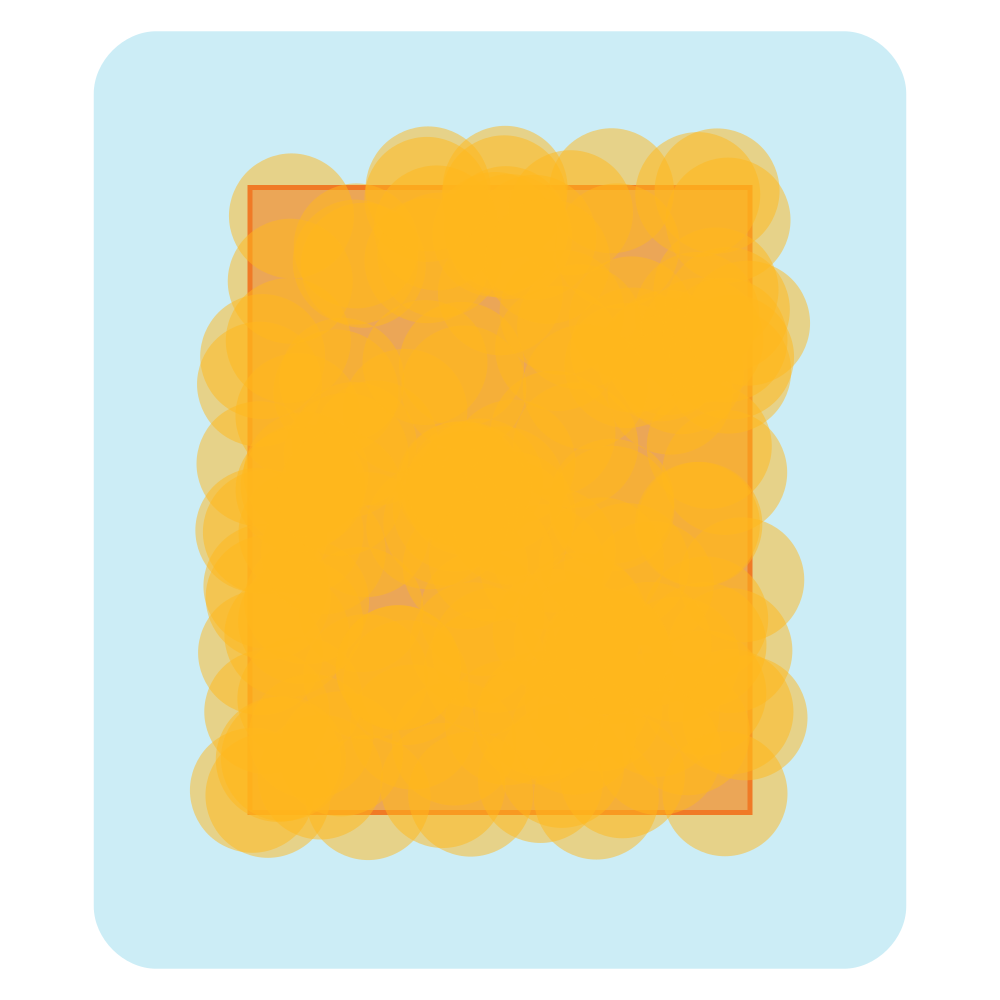
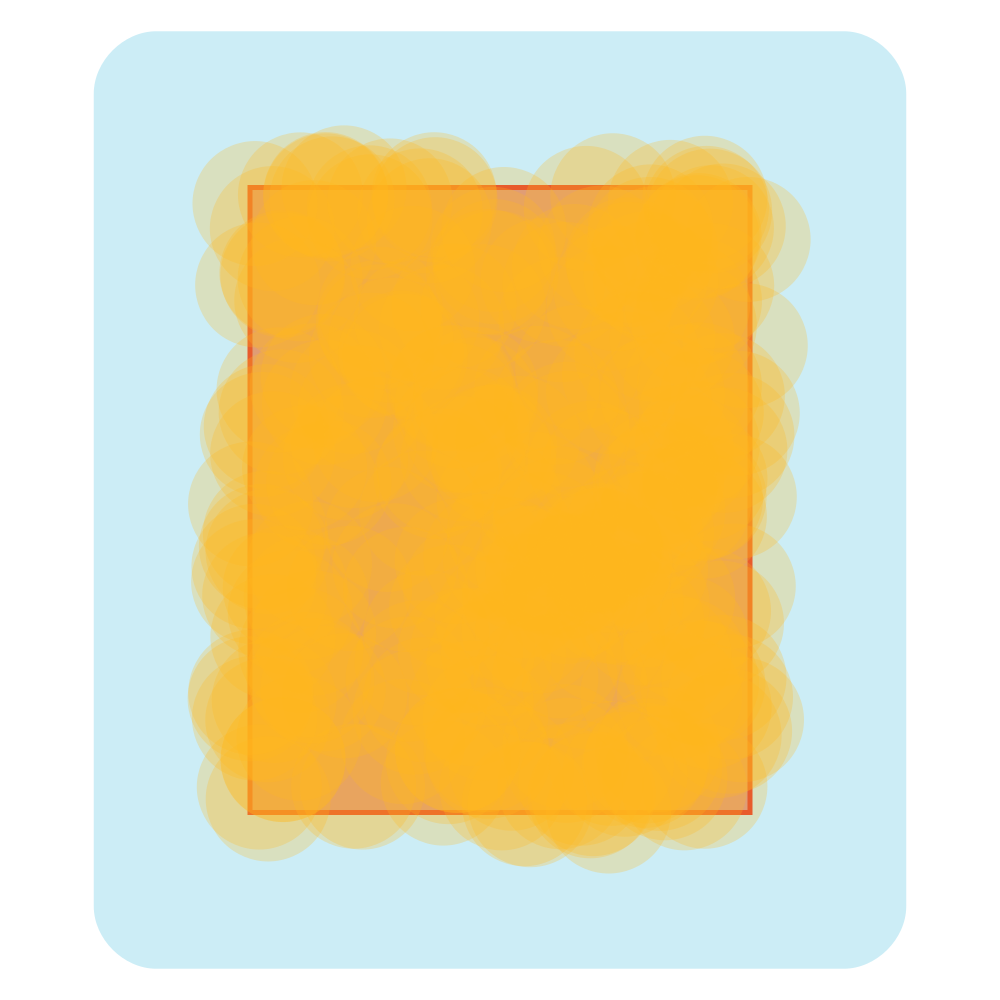
aftelbare-gesloten-som stelling

diff --git a/BEP/AGSS.py b/BEP/AGSS.py
@@ -1,0 +1,223 @@
+from manim import *
+from Helper import *
+import random
+from collections import deque
+
+set_frame_size()
+
+class BaseClass(Scene):
+    def inCover(self, p, cover):
+        for center_point in cover:
+            if (center_point[0] - p[0]) * (center_point[0] - p[0]) + (center_point[1] - p[1]) * (center_point[1] - p[1]) < .5625:
+                return True
+        return False
+    
+    def isCover(self, cover):
+        for i in range(0, 100):
+            for j in range(0, 100):
+                y = -3 + .06 * i
+                x = -3 + .06 * j
+                if not self.inCover((x, y), cover):
+                    return False
+        return True
+
+class Image01(BaseClass):
+    def construct(self):
+        self.camera.background_color = WHITE
+        random.seed(0)
+        full_cover = []
+        while True:
+            x = random.uniform(-3, 3)
+            y = random.uniform(-3, 3)
+            full_cover.append((x, y))
+            if self.isCover(full_cover):
+                break
+
+        subcover = deque(full_cover.copy())
+        for _ in range(len(subcover)):
+            center_point = subcover.pop()
+            if not self.isCover(subcover):
+                subcover.appendleft(center_point)
+        subcover.append((-2.5, 0))
+        for point in subcover:
+            self.add(Circle(radius=.75, color=PRIMARY, fill_opacity=.25, stroke_width=0).shift((point[0], point[1], 0)))
+
+        self.add(Rectangle(width=6, height=6, color=BLACK))
+
+class Image02(BaseClass):
+    def construct(self):
+        self.camera.background_color = WHITE
+        random.seed(0)
+        full_cover = []
+        while True:
+            x = random.uniform(-3, 3)
+            y = random.uniform(-3, 3)
+            full_cover.append((x, y))
+            if self.isCover(full_cover):
+                break
+
+        subcover = deque(full_cover.copy())
+        for _ in range(len(subcover)):
+            center_point = subcover.pop()
+            if not self.isCover(subcover):
+                subcover.appendleft(center_point)
+        subcover.append((-2.5, 0))
+        for point in subcover:
+            self.add(Circle(radius=.75, color=PRIMARY, fill_opacity=.25, stroke_width=0).shift((point[0], point[1], 0)))
+        
+        self.add(Rectangle(width=3, height=2, color=SECONDARY, fill_opacity=.3).shift((1.6, 0, 0)))
+        self.add(Rectangle(width=1.5, height=5, color=SECONDARY, fill_opacity=.3).shift((-.5, 0, 0)))
+        self.add(Rectangle(width=4, height=.75, color=SECONDARY, fill_opacity=.3).shift((-1.6, -2.75, 0)))
+        self.add(Rectangle(width=2, height=2.5, color=SECONDARY, fill_opacity=.3).shift((.8, -2.1, 0)))
+        self.add(Rectangle(width=1.75, height=2.25, color=SECONDARY, fill_opacity=.3).shift((2.2, -2.1, 0)))
+        self.add(Rectangle(width=6.5, height=.5, color=SECONDARY, fill_opacity=.3).shift((0, 1, 0)))
+        self.add(Rectangle(width=2, height=3.5, color=SECONDARY, fill_opacity=.3).shift((-2.1, -.85, 0)))
+        self.add(Rectangle(width=2, height=2, color=SECONDARY, fill_opacity=.3).shift((-2.2, 2.2, 0)))
+        self.add(Rectangle(width=3.5, height=2, color=SECONDARY, fill_opacity=.3).shift((1.3, 2.1, 0)))
+        self.add(Rectangle(width=1, height=.75, color=SECONDARY, fill_opacity=.3).shift((-.9, 2.8, 0)))
+
+        self.add(Rectangle(width=6, height=6, color=BLACK))
+
+class Image03(BaseClass):
+    def construct(self):
+        self.camera.background_color = WHITE
+        random.seed(0)
+        full_cover = []
+        while True:
+            x = random.uniform(-3, 3)
+            y = random.uniform(-3, 3)
+            full_cover.append((x, y))
+            if self.isCover(full_cover):
+                break
+
+        subcover = deque(full_cover.copy())
+        for _ in range(len(subcover)):
+            center_point = subcover.pop()
+            if not self.isCover(subcover):
+                subcover.appendleft(center_point)
+        subcover.append((-2.5, 0))
+        for point in subcover:
+            self.add(Circle(radius=.75, color=PRIMARY, fill_opacity=.25, stroke_width=0).shift((point[0], point[1], 0)))
+        
+        self.add(Rectangle(width=3, height=2, color=SECONDARY, fill_opacity=.3).shift((1.6, 0, 0)))
+
+        self.add(Rectangle(width=6, height=6, color=BLACK))
+
+class Image04(BaseClass):
+    def construct(self):
+        self.camera.background_color = WHITE
+        random.seed(0)
+        full_cover = []
+        while True:
+            x = random.uniform(-3, 3)
+            y = random.uniform(-3, 3)
+            full_cover.append((x, y))
+            if self.isCover(full_cover):
+                break
+
+        subcover = deque(full_cover.copy())
+        for _ in range(len(subcover)):
+            center_point = subcover.pop()
+            if not self.isCover(subcover):
+                subcover.appendleft(center_point)
+        subcover.append((-2.5, 0))
+        for point in subcover:
+            if (point[0] - 2.5) ** 2 + point[1] ** 2 < .5:
+                self.add(Intersection(
+                    Circle(radius=.75).shift((point[0], point[1], 0)),
+                    Circle(radius=.75).shift((point[0] + .15, point[1], 0)),
+                    color=PRIMARY, fill_opacity=.25, stroke_width=0
+                ))
+                continue
+            self.add(Circle(radius=.75, color=PRIMARY, fill_opacity=.25, stroke_width=0).shift((point[0], point[1], 0)))
+
+        self.add(Rectangle(width=3, height=2, color=SECONDARY, fill_opacity=.3).shift((1.6, 0, 0)))
+
+        self.add(Rectangle(width=6, height=6, color=BLACK))
+
+class Image05(BaseClass):
+    def construct(self):
+        self.camera.background_color = WHITE
+        random.seed(0)
+        full_cover = []
+        while True:
+            x = random.uniform(-3, 3)
+            y = random.uniform(-3, 3)
+            full_cover.append((x, y))
+            if self.isCover(full_cover):
+                break
+
+        subcover = deque(full_cover.copy())
+        for _ in range(len(subcover)):
+            center_point = subcover.pop()
+            if not self.isCover(subcover):
+                subcover.appendleft(center_point)
+        subcover.append((-2.5, 0))
+        for point in subcover:
+            if (point[0] - 2.5) ** 2 + point[1] ** 2 < .5:
+                self.add(Intersection(
+                    Circle(radius=.75).shift((point[0], point[1], 0)),
+                    Circle(radius=.75).shift((point[0] + .15, point[1], 0)),
+                    color=PRIMARY, fill_opacity=.25, stroke_width=0
+                ))
+                continue
+            if (point[0] - .5) ** 2 + (point[1] + .2) ** 2 < .4:
+                self.add(Intersection(
+                    Circle(radius=.75).shift((point[0], point[1], 0)),
+                    Circle(radius=.75).shift((point[0] - .2, point[1], 0)),
+                    color=PRIMARY, fill_opacity=.25, stroke_width=0
+                ))
+                continue
+            self.add(Circle(radius=.75, color=PRIMARY, fill_opacity=.25, stroke_width=0).shift((point[0], point[1], 0)))
+
+        self.add(Rectangle(width=3, height=2, color=SECONDARY, fill_opacity=.3).shift((1.6, 0, 0)))
+
+        self.add(Rectangle(width=6, height=6, color=BLACK))
+
+class Image06(BaseClass):
+    def construct(self):
+        self.camera.background_color = WHITE
+        random.seed(0)
+        full_cover = []
+        while True:
+            x = random.uniform(-3, 3)
+            y = random.uniform(-3, 3)
+            full_cover.append((x, y))
+            if self.isCover(full_cover):
+                break
+
+        subcover = deque(full_cover.copy())
+        for _ in range(len(subcover)):
+            center_point = subcover.pop()
+            if not self.isCover(subcover):
+                subcover.appendleft(center_point)
+        subcover.append((-2.5, 0))
+        for point in subcover:
+            if (point[0] - 2.5) ** 2 + point[1] ** 2 < .5:
+                self.add(Intersection(
+                    Circle(radius=.75).shift((point[0], point[1], 0)),
+                    Circle(radius=.75).shift((point[0] + .15, point[1], 0)),
+                    color=PRIMARY, fill_opacity=.25, stroke_width=0
+                ))
+                continue
+            if (point[0] - .5) ** 2 + (point[1] + .2) ** 2 < .4:
+                self.add(Intersection(
+                    Circle(radius=.75).shift((point[0], point[1], 0)),
+                    Circle(radius=.75).shift((point[0] - .2, point[1], 0)),
+                    color=PRIMARY, fill_opacity=.25, stroke_width=0
+                ))
+                continue
+            self.add(Circle(radius=.75, color=PRIMARY, fill_opacity=.25, stroke_width=0).shift((point[0], point[1], 0)))
+
+        self.add(Rectangle(width=3, height=2, color=SECONDARY, fill_opacity=.3).shift((1.6, 0, 0)))
+        self.add(Rectangle(width=1.5, height=5, color=SECONDARY, fill_opacity=.3).shift((-.5, 0, 0)))
+        self.add(Rectangle(width=4, height=.75, color=SECONDARY, fill_opacity=.3).shift((-1.6, -2.75, 0)))
+        self.add(Rectangle(width=2, height=2.5, color=SECONDARY, fill_opacity=.3).shift((.8, -2.1, 0)))
+        self.add(Rectangle(width=1.75, height=2.25, color=SECONDARY, fill_opacity=.3).shift((2.2, -2.1, 0)))
+        self.add(Rectangle(width=6.5, height=.5, color=SECONDARY, fill_opacity=.3).shift((0, 1, 0)))
+        self.add(Rectangle(width=2, height=3.5, color=SECONDARY, fill_opacity=.3).shift((-2.1, -.85, 0)))
+        self.add(Rectangle(width=2, height=2, color=SECONDARY, fill_opacity=.3).shift((-2.2, 2.2, 0)))
+        self.add(Rectangle(width=3.5, height=2, color=SECONDARY, fill_opacity=.3).shift((1.3, 2.1, 0)))
+        self.add(Rectangle(width=1, height=.75, color=SECONDARY, fill_opacity=.3).shift((-.9, 2.8, 0)))
+
+        self.add(Rectangle(width=6, height=6, color=BLACK))

diff --git a/BEP/Lindelöf.py b/BEP/Lindelöf.py
@@ -1,6 +1,7 @@
 from manim import *
 from Helper import *
 import random
+from collections import deque
 
 set_frame_size()
 
@@ -11,61 +12,116 @@ class Image01(Scene):
         self.add(Rectangle(height=5, width=4, color=SECONDARY, fill_opacity=.5))
 
 class Image02(Scene):
-    def construct(self):
-        self.camera.background_color = WHITE
-        self.add(RoundedRectangle(height=7.5, width=6.5, color=PRIMARY, fill_opacity=.2, stroke_width=0))
-        self.add(Rectangle(height=5, width=4, color=SECONDARY, fill_opacity=.5))
-        random.seed(2)
-        for i in range(150):
-            x = random.uniform(-2, 2)
-            y = random.uniform(-2.5, 2.5)
-            self.add(Circle(radius=.5, color=TERTIARY, fill_opacity=.5, stroke_width=0).shift((x, y, 0)))
-        x = -.6
-        y = 1.1
-        self.add(Circle(radius=.5, color=TERTIARY, fill_opacity=.5, stroke_width=0).shift((x, y, 0)))
-        x = 1.8
-        y = -2.35
-        self.add(Circle(radius=.5, color=TERTIARY, fill_opacity=.5, stroke_width=0).shift((x, y, 0)))
-
-class Image03(Scene):
     def inCover(self, p, cover):
         for center_point in cover:
-            if (center_point[0] - p[0]) * (center_point[0] - p[0]) + (center_point[1] - p[1]) * (center_point[1] - p[1]) < .25:
+            if (center_point[0] - p[0]) * (center_point[0] - p[0]) + (center_point[1] - p[1]) * (center_point[1] - p[1]) < .2:
                 return True
         return False
-
-    def construct(self):
-        self.camera.background_color = WHITE
-        self.add(RoundedRectangle(height=7.5, width=6.5, color=PRIMARY, fill_opacity=.2, stroke_width=0))
-        self.add(Rectangle(height=5, width=4, color=SECONDARY, fill_opacity=.5))
-
-        full_cover = [(-.6, 1.1), (1.8, -2.35)]
-
-        random.seed(2)
-        for i in range(150):
-            x = random.uniform(-2, 2)
-            y = random.uniform(-2.5, 2.5)
-            full_cover.append((x, y))
-        x = -.6
-        y = 1.1
-        self.add(Circle(radius=.5, color=TERTIARY, fill_opacity=.5, stroke_width=0).shift((x, y, 0)))
-        x = 1.8
-        y = -2.35
-        self.add(Circle(radius=.5, color=TERTIARY, fill_opacity=.5, stroke_width=0).shift((x, y, 0)))
-
-        countable_cover = [(-.6, 1.1), (1.8, -2.35)]
-
+    
+    def isCover(self, cover):
         for i in range(0, 100):
             for j in range(0, 80):
                 y = -2.5 + .05 * i
                 x = -2 + .05 * j
-                if not self.inCover((x, y), countable_cover):
-                    for center_point in full_cover:
-                        if (x - center_point[0]) * (x - center_point[0]) + (y - center_point[1]) * (y - center_point[1]) < .15:
-                            countable_cover.append(center_point)
-                            break
-                    else:
-                        continue
+                if not self.inCover((x, y), cover):
+                    return False
+        return True
+    
+    def construct(self):
+        self.camera.background_color = WHITE
+        self.add(RoundedRectangle(height=7.5, width=6.5, color=PRIMARY, fill_opacity=.2, stroke_width=0))
+        self.add(Rectangle(height=5, width=4, color=SECONDARY, fill_opacity=.5))
+        random.seed(0)
+        full_cover = []
+        while True:
+            x = random.uniform(-2, 2)
+            y = random.uniform(-2.5, 2.5)
+            full_cover.append((x, y))
+            self.add(Circle(radius=.5, color=TERTIARY, fill_opacity=.25, stroke_width=0).shift((x, y, 0)))
+            if self.isCover(full_cover):
+                break
+
+class Image03(Scene):
+    def inCover(self, p, cover):
+        for center_point in cover:
+            if (center_point[0] - p[0]) * (center_point[0] - p[0]) + (center_point[1] - p[1]) * (center_point[1] - p[1]) < .2:
+                return True
+        return False
+
+    def isCover(self, cover):
+        for i in range(0, 100):
+            for j in range(0, 80):
+                y = -2.5 + .05 * i
+                x = -2 + .05 * j
+                if not self.inCover((x, y), cover):
+                    return False
+        return True
+
+    def construct(self):
+        self.camera.background_color = WHITE
+        self.add(RoundedRectangle(height=7.5, width=6.5, color=PRIMARY, fill_opacity=.2, stroke_width=0))
+        self.add(Rectangle(height=5, width=4, color=SECONDARY, fill_opacity=.5))
+
+        random.seed(0)
+        full_cover = []
+        while True:
+            x = random.uniform(-2, 2)
+            y = random.uniform(-2.5, 2.5)
+            full_cover.append((x, y))
+            if self.isCover(full_cover):
+                break
+
+        countable_cover = deque(full_cover.copy())
+        
+        for _ in range(len(countable_cover)):
+            center_point = countable_cover.pop()
+            if not self.isCover(countable_cover):
+                countable_cover.appendleft(center_point)
+
         for point in countable_cover:
-            self.add(Circle(radius=.5, color=TERTIARY, fill_opacity=.5, stroke_width=0).shift((point[0], point[1], 0)))
-                
+            self.add(Circle(radius=.5, color=TERTIARY, fill_opacity=.35, stroke_width=0).shift((point[0], point[1], 0)))
+
+class Image04(Scene):
+    def inCover(self, p, cover):
+        for center_point in cover:
+            if (center_point[0] - p[0]) * (center_point[0] - p[0]) + (center_point[1] - p[1]) * (center_point[1] - p[1]) < .2:
+                return True
+        return False
+
+    def isCover(self, cover):
+        for i in range(0, 100):
+            for j in range(0, 80):
+                y = -2.5 + .05 * i
+                x = -2 + .05 * j
+                if not self.inCover((x, y), cover):
+                    return False
+        return True
+
+    def construct(self):
+        self.camera.background_color = WHITE
+        self.add(RoundedRectangle(height=7.5, width=6.5, color=PRIMARY, fill_opacity=.2, stroke_width=0))
+        self.add(Rectangle(height=5, width=4, color=SECONDARY, fill_opacity=.5))
+
+        random.seed(0)
+        full_cover = []
+        while True:
+            x = random.uniform(-2, 2)
+            y = random.uniform(-2.5, 2.5)
+            full_cover.append((x, y))
+            if self.isCover(full_cover):
+                break
+
+        countable_cover = deque(full_cover.copy())
+        
+        for _ in range(len(countable_cover)):
+            center_point = countable_cover.pop()
+            if not self.isCover(countable_cover):
+                countable_cover.appendleft(center_point)
+
+        interior = Circle(radius=.5).shift((countable_cover[0][0], countable_cover[0][1], 0))
+        closure = Circle(radius=.525).shift((countable_cover[0][0], countable_cover[0][1], 0))
+        for point in countable_cover:
+            interior = Union(interior, Circle(radius=.5).shift((point[0], point[1], 0)))
+            closure = Union(closure, Circle(radius=.525).shift((point[0], point[1], 0)))
+            self.add(Circle(radius=.5, color=TERTIARY, fill_opacity=.35, stroke_width=0).shift((point[0], point[1], 0)))
+        self.add(Difference(closure, interior, color=TERTIARY, fill_opacity=1))
